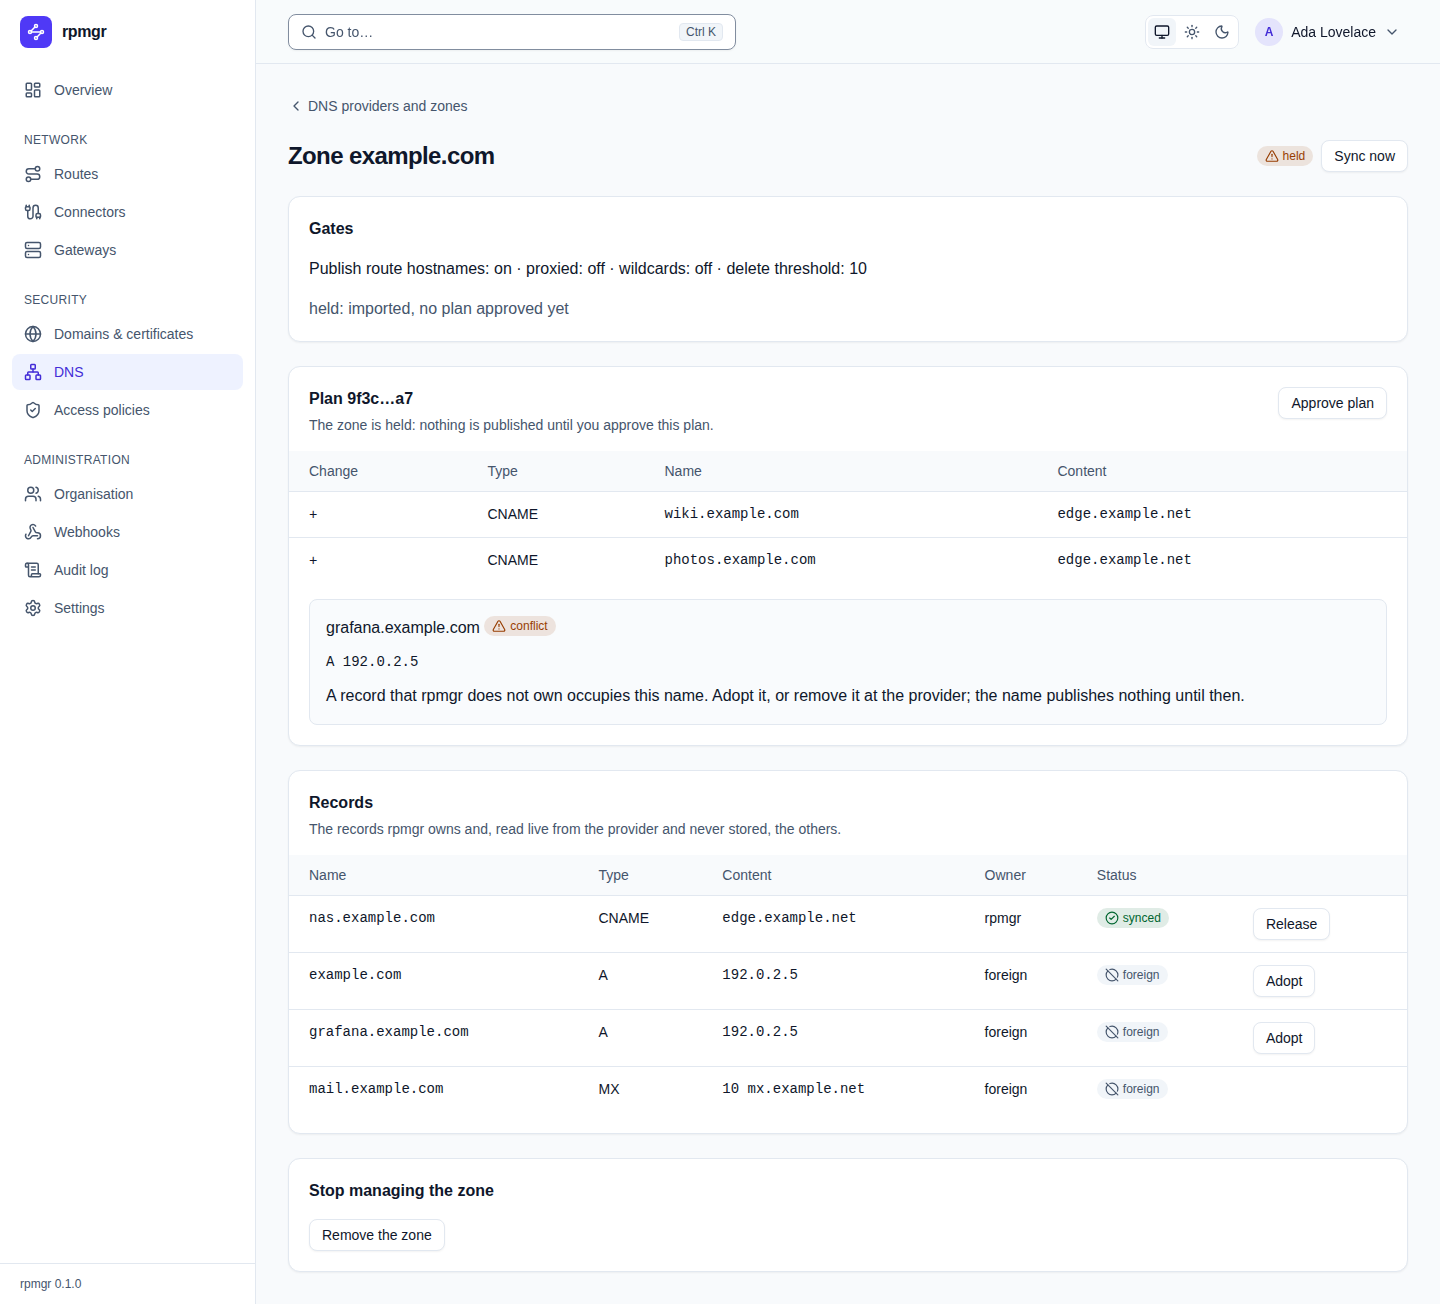
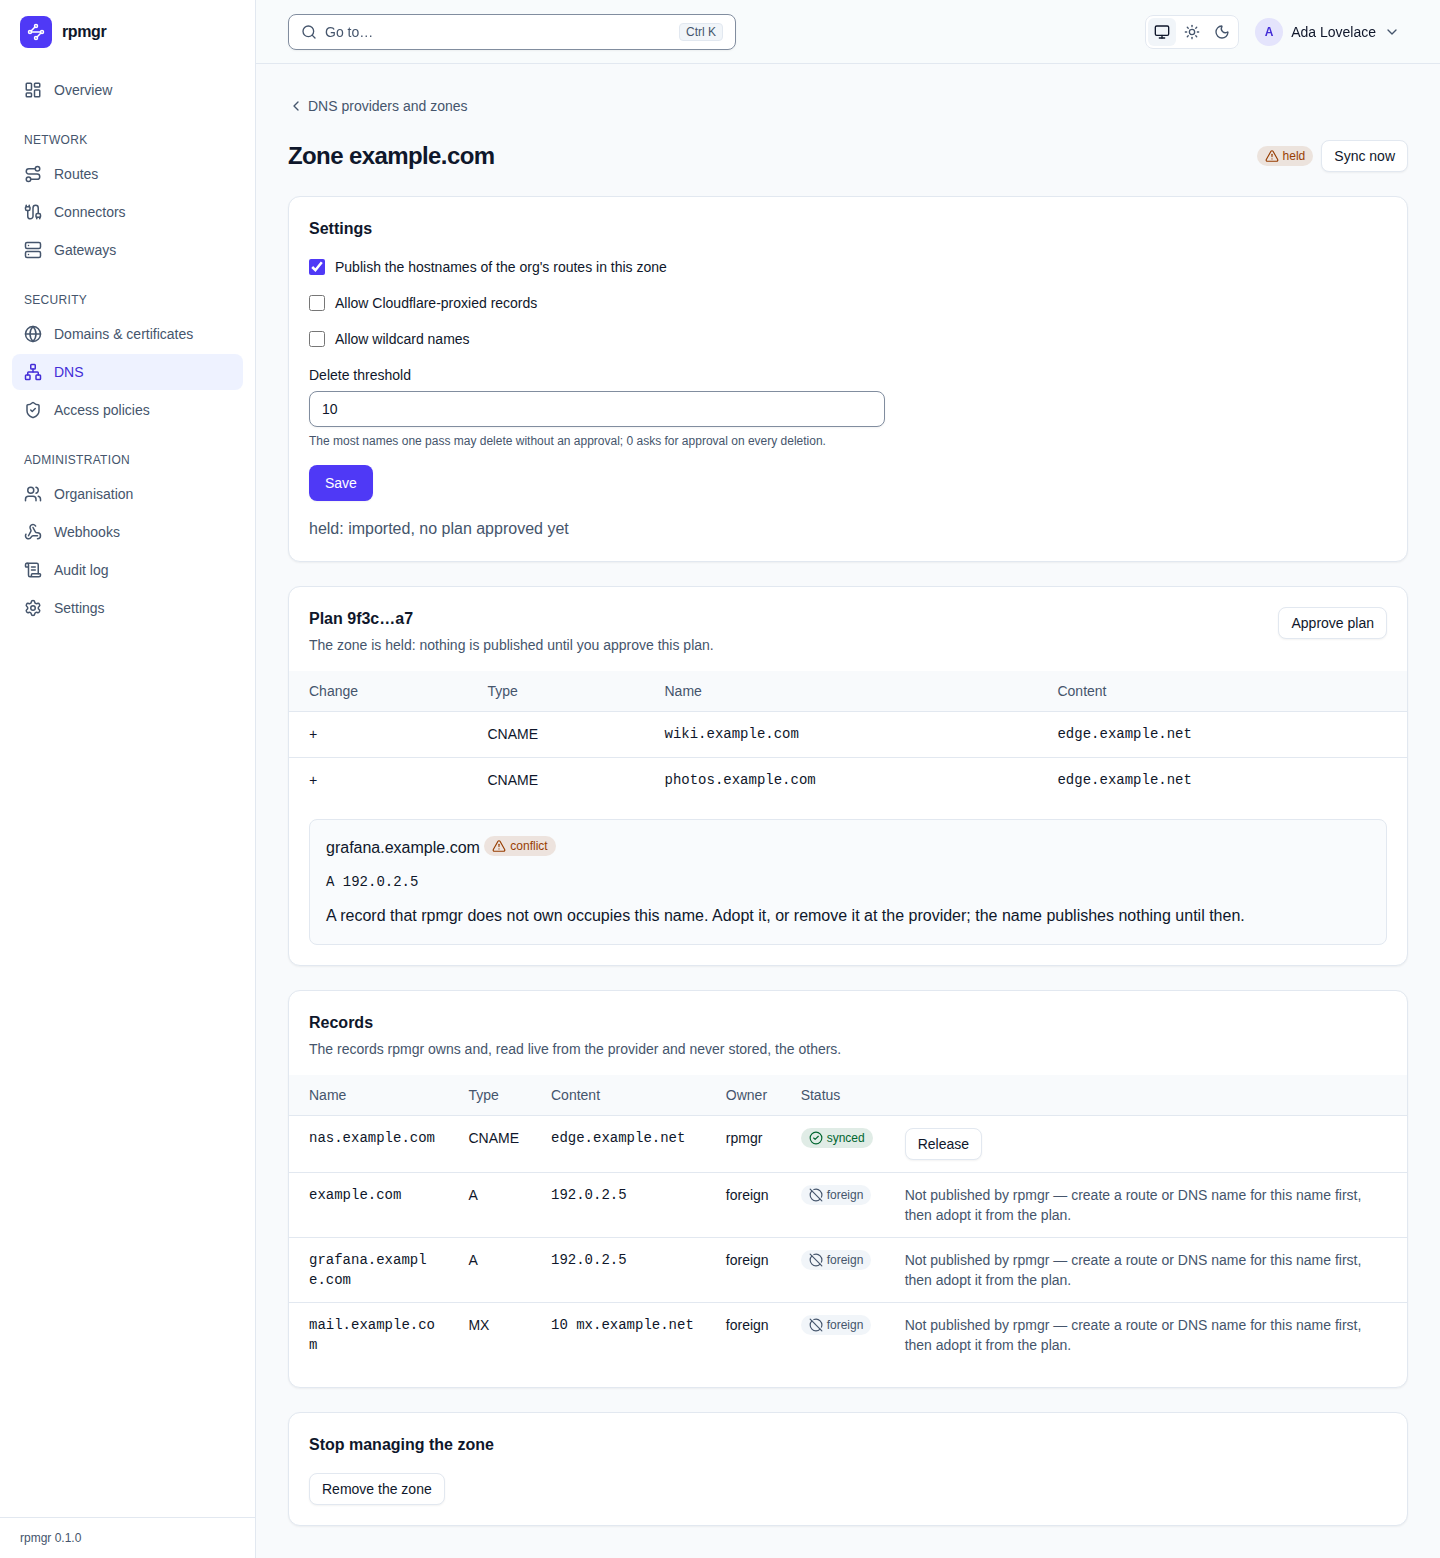
feat(web): change a DNS zone's settings on its page
Owners and Admins could change a zone's gates and delete threshold only
with `rpmgr update zone` or the API. The zone page now has a Settings
form: three switches and the delete threshold. It sends only the changed
fields in the update mask, with the zone's etag; UpdateZone needs no
step-up. The threshold is checked as a whole number from 0 to 1000, the
bounds of the server.

Closes #1156

diff --git a/web/src/pages/dns-zone.test.tsx b/web/src/pages/dns-zone.test.tsx
@@ -5,7 +5,7 @@ import { cleanup, fireEvent, render, screen, waitFor, within } from "@testing-li
 import { afterEach, describe, expect, it } from "vitest";
 import {
   DnsRecordState, DnsZoneService, ZoneDelegationState, ZoneProviderStatus, ZoneSyncState,
-  type AdoptRecordsRequest, type ApproveZonePlanRequest, type ListZoneRecordsRequest, type PlanZoneSyncRequest, type ReleaseRecordRequest, type RemoveZoneRequest,
+  type AdoptRecordsRequest, type ApproveZonePlanRequest, type ListZoneRecordsRequest, type PlanZoneSyncRequest, type ReleaseRecordRequest, type RemoveZoneRequest, type UpdateZoneRequest,
 } from "@/gen/rpmgr/v1/dns_pb";
 import { Theme, UserService } from "@/gen/rpmgr/v1/user_pb";
 import { apiError, auth, show } from "@/testing/api";
@@ -45,12 +45,12 @@ const foreign = [
   { id: "", providerRecordId: "pr_n", name: "www.example.com", type: "A", content: "203.0.113.9", state: DnsRecordState.FOREIGN, adoptable: false, adoptReason: "not_published" },
 ];
 
-interface Opts { role?: string; zone?: typeof held; planOf?: (n: number) => string; approveFails?: boolean; warning?: string }
+interface Opts { role?: string; updateFails?: Code; zone?: typeof held; planOf?: (n: number) => string; approveFails?: boolean; warning?: string }
 
 function page(opts: Opts = {}) {
   const calls = {
     getZone: 0, plans: [] as PlanZoneSyncRequest[], records: [] as ListZoneRecordsRequest[], approve: [] as ApproveZonePlanRequest[], adopt: [] as AdoptRecordsRequest[],
-    release: [] as ReleaseRecordRequest[], remove: [] as RemoveZoneRequest[], enable: 0, sync: 0, stepUps: 0,
+    release: [] as ReleaseRecordRequest[], remove: [] as RemoveZoneRequest[], update: [] as UpdateZoneRequest[], enable: 0, sync: 0, stepUps: 0,
   };
   let steppedUp = false;
   const needStepUp = () => {
@@ -84,6 +84,14 @@ function page(opts: Opts = {}) {
       releaseRecord: (req) => (needStepUp(), calls.release.push(req), { warning: opts.warning ?? "" }),
       enableZone: () => (needStepUp(), calls.enable++, { dnsZone: { ...current, syncState: ZoneSyncState.HELD } }),
       syncZone: () => (calls.sync++, { dnsZone: current }),
+      updateZone: (req) => {
+        if (opts.updateFails !== undefined) {
+          throw apiError(opts.updateFails, opts.updateFails === Code.FailedPrecondition ? "ETAG_MISMATCH" : "INVALID_ARGUMENT");
+        }
+        calls.update.push(req);
+        current = { ...current, ...req.dnsZone, etag: "6" } as typeof held;
+        return { dnsZone: current };
+      },
       removeZone: (req) => {
         needStepUp();
         calls.remove.push(req);
@@ -342,5 +350,73 @@ describe("DNS zone: long record content", () => {
   it("shows short content whole, without a proxied suffix when not proxied", () => {
     const r = render(<RecordContent content="192.0.2.7" />);
     expect(r.getByTitle("192.0.2.7").textContent).toBe("192.0.2.7");
+  });
+});
+
+describe("DNS zone: settings", () => {
+  it("saves only the changed fields, with the etag, and shows the saved zone", async () => {
+    const calls = page();
+    const form = within(await screen.findByRole("form", { name: "Settings" }));
+    expect((form.getByLabelText("Publish the hostnames of the org's routes in this zone") as HTMLInputElement).checked).toBe(true);
+    fireEvent.click(form.getByLabelText("Allow wildcard names"));
+    fireEvent.change(form.getByLabelText("Delete threshold"), { target: { value: "25" } });
+    fireEvent.click(form.getByRole("button", { name: "Save" }));
+    await waitFor(() => expect(calls.update).toHaveLength(1));
+    const req = calls.update[0]!;
+    expect(req.updateMask?.paths).toEqual(["allow_wildcards", "delete_threshold"]);
+    expect([req.dnsZone?.id, req.dnsZone?.allowWildcards, req.dnsZone?.deleteThreshold, req.etag]).toEqual(["dnz_1", true, 25, "5"]);
+    expect(await screen.findByText("The zone's settings are saved.")).toBeTruthy();
+    await waitFor(() => expect(calls.getZone).toBeGreaterThan(1));
+    expect(calls.stepUps).toBe(0);
+    await waitFor(() => expect((within(screen.getByRole("form", { name: "Settings" })).getByLabelText("Allow wildcard names") as HTMLInputElement).checked).toBe(true));
+  });
+
+  it("sends nothing when nothing changed", async () => {
+    const calls = page();
+    fireEvent.click(within(await screen.findByRole("form", { name: "Settings" })).getByRole("button", { name: "Save" }));
+    await new Promise((r) => setTimeout(r, 50));
+    expect(calls.update).toHaveLength(0);
+  });
+
+  it("shows no form to an Operator", async () => {
+    page({ role: "operator" });
+    expect((await screen.findAllByText(/owns/)).length).toBeGreaterThan(0);
+    expect(screen.queryByRole("form", { name: "Settings" })).toBeNull();
+    expect(screen.queryByLabelText("Delete threshold")).toBeNull();
+  });
+
+  it.each(["", "-1", "1001", "1.5", "abc", "1e2", "99999999999"])("refuses the threshold %j and sends nothing", async (value) => {
+    const calls = page();
+    const form = within(await screen.findByRole("form", { name: "Settings" }));
+    fireEvent.change(form.getByLabelText("Delete threshold"), { target: { value } });
+    fireEvent.click(form.getByRole("button", { name: "Save" }));
+    expect(await form.findByText("Enter a whole number from 0 to 1000.")).toBeTruthy();
+    expect(calls.update).toHaveLength(0);
+  });
+
+  it.each([["0", 0], ["1000", 1000]])("accepts the boundary threshold %s", async (value, n) => {
+    const calls = page();
+    const form = within(await screen.findByRole("form", { name: "Settings" }));
+    fireEvent.change(form.getByLabelText("Delete threshold"), { target: { value } });
+    fireEvent.click(form.getByRole("button", { name: "Save" }));
+    await waitFor(() => expect(calls.update.map((x) => x.dnsZone?.deleteThreshold)).toEqual([n]));
+  });
+
+  it("shows the refusal of a change made meanwhile and reloads the zone", async () => {
+    const calls = page({ updateFails: Code.FailedPrecondition });
+    const form = within(await screen.findByRole("form", { name: "Settings" }));
+    fireEvent.click(form.getByLabelText("Allow Cloudflare-proxied records"));
+    fireEvent.click(form.getByRole("button", { name: "Save" }));
+    expect(await screen.findByRole("alert")).toBeTruthy();
+    expect(screen.queryByText("The zone's settings are saved.")).toBeNull();
+    await waitFor(() => expect(calls.getZone).toBeGreaterThan(1));
+  });
+
+  it("shows the refusal of a value the API rejects", async () => {
+    page({ updateFails: Code.InvalidArgument });
+    const form = within(await screen.findByRole("form", { name: "Settings" }));
+    fireEvent.click(form.getByLabelText("Allow wildcard names"));
+    fireEvent.click(form.getByRole("button", { name: "Save" }));
+    expect(await screen.findByRole("alert")).toBeTruthy();
   });
 });

diff --git a/web/src/pages/dns-zone-settings.tsx b/web/src/pages/dns-zone-settings.tsx
@@ -1,0 +1,93 @@
+// SPDX-License-Identifier: Apache-2.0
+
+import { useMutation } from "@connectrpc/connect-query";
+import { useQueryClient } from "@tanstack/react-query";
+import { useState, type FormEvent } from "react";
+import { useTranslation } from "react-i18next";
+import { Field } from "@/components/field";
+import { Alert } from "@/components/public-page";
+import { Button } from "@/components/ui/button";
+import { DnsZoneService, type DnsZone } from "@/gen/rpmgr/v1/dns_pb";
+import { apiError } from "@/lib/api-error";
+
+// The highest delete threshold UpdateZone accepts (internal/apisvc/dns_zone.go, maxDeleteThreshold;
+// docs/15-dns.md, "Defaults").
+const maxThreshold = 1000;
+
+const check = "flex items-center gap-2.5 text-sm";
+
+// thresholdOf reads the threshold input: a whole number from 0 to the highest the API accepts, or
+// undefined.
+export function thresholdOf(text: string): number | undefined {
+  if (!/^\d{1,5}$/.test(text.trim())) {
+    return undefined;
+  }
+  const n = Number(text);
+  return n <= maxThreshold ? n : undefined;
+}
+
+// ZoneSettings changes the gates and the delete threshold of a zone, for Owners and Admins. It
+// sends the fields that differ from the zone as read, in the update mask, with the zone's etag, so
+// that a change somebody else made meanwhile is refused and not overwritten. UpdateZone needs no
+// step-up.
+// The form is keyed by the zone's etag by its caller, so that it shows the zone as read last; saved
+// and onSaved live above that key.
+export function ZoneSettings({ zone, saved, onSaved }: { zone: DnsZone; saved: boolean; onSaved: (v: boolean) => void }) {
+  const { t } = useTranslation();
+  const queryClient = useQueryClient();
+  const update = useMutation(DnsZoneService.method.updateZone);
+  const [routes, setRoutes] = useState(zone.publishRouteHostnames);
+  const [proxied, setProxied] = useState(zone.allowProxied);
+  const [wildcards, setWildcards] = useState(zone.allowWildcards);
+  const [threshold, setThreshold] = useState(String(zone.deleteThreshold));
+  const [error, setError] = useState("");
+  const parsed = thresholdOf(threshold);
+  const bad = parsed === undefined ? t("dnsZone.thresholdInvalid", { max: maxThreshold }) : "";
+  async function save(e: FormEvent) {
+    e.preventDefault();
+    onSaved(false);
+    setError("");
+    if (parsed === undefined) {
+      return;
+    }
+    const paths: string[] = [];
+    if (routes !== zone.publishRouteHostnames) paths.push("publish_route_hostnames");
+    if (proxied !== zone.allowProxied) paths.push("allow_proxied");
+    if (wildcards !== zone.allowWildcards) paths.push("allow_wildcards");
+    if (parsed !== zone.deleteThreshold) paths.push("delete_threshold");
+    if (paths.length === 0) {
+      return;
+    }
+    try {
+      await update.mutateAsync({
+        dnsZone: { id: zone.id, publishRouteHostnames: routes, allowProxied: proxied, allowWildcards: wildcards, deleteThreshold: parsed },
+        updateMask: { paths },
+        etag: zone.etag,
+      });
+      onSaved(true);
+    } catch (err) {
+      setError(apiError(t, err));
+    }
+    await queryClient.invalidateQueries();
+  }
+  return (
+    <form onSubmit={save} aria-label={t("dnsZone.settings")} noValidate className="grid max-w-xl gap-4">
+      <label className={check}>
+        <input type="checkbox" className="size-4 accent-primary" checked={routes} onChange={(e) => setRoutes(e.target.checked)} />
+        {t("dnsZone.publishRoutes")}
+      </label>
+      <label className={check}>
+        <input type="checkbox" className="size-4 accent-primary" checked={proxied} onChange={(e) => setProxied(e.target.checked)} />
+        {t("dnsZone.allowProxied")}
+      </label>
+      <label className={check}>
+        <input type="checkbox" className="size-4 accent-primary" checked={wildcards} onChange={(e) => setWildcards(e.target.checked)} />
+        {t("dnsZone.allowWildcards")}
+      </label>
+      <Field label={t("dnsZone.threshold")} hint={t("dnsZone.thresholdHint")} error={bad} inputMode="numeric" value={threshold} onChange={(e) => setThreshold(e.target.value)} />
+      {error && <Alert>{error}</Alert>}
+      {saved && <p role="status">{t("dnsZone.settingsSaved")}</p>}
+      <Button type="submit" className="justify-self-start" disabled={update.isPending}>{t("routeForm.save")}</Button>
+    </form>
+  );
+}

diff --git a/web/src/pages/dns-zone.tsx b/web/src/pages/dns-zone.tsx
@@ -20,6 +20,7 @@ import { apiError } from "@/lib/api-error";
 import { Reason, reasonOf } from "@/lib/errors";
 import { when } from "@/lib/format";
 import { AdoptButton, RecordContent, ZoneRecords } from "@/pages/dns-records";
+import { ZoneSettings } from "@/pages/dns-zone-settings";
 import { useOrg } from "@/session";
 import { useStepUp } from "@/step-up";
 
@@ -90,7 +91,7 @@ export function DnsZonePage() {
       {error && <Alert>{error}</Alert>}
       {note && <p role="status">{note}</p>}
       {zone && <DelegationWarning zone={zone} />}
-      {zone && <ZoneState zone={zone} />}
+      {zone && <ZoneState zone={zone} admin={admin} />}
       {zone && zone.syncState !== ZoneSyncState.DISABLED && <PlanCard zone={zone} />}
       <ZoneRecords zoneId={zoneId} admin={admin} />
       {zone && !zone.removalPending && <RemoveCard zone={zone} />}
@@ -116,13 +117,17 @@ function DelegationWarning({ zone }: { zone: DnsZone }) {
   return text ? <Alert>{text}</Alert> : null;
 }
 
-// ZoneState shows what the zone's gates are and what its provider answered.
-function ZoneState({ zone: z }: { zone: DnsZone }) {
+// ZoneState shows what the zone's gates are and what its provider answered. Owners and Admins
+// change the gates there.
+function ZoneState({ zone: z, admin }: { zone: DnsZone; admin: boolean }) {
   const { t } = useTranslation();
   const yes = (v: boolean) => t(v ? "dnsZone.on" : "dnsZone.off");
+  const [saved, setSaved] = useState(false);
   return (
-    <Card title={t("dnsZone.gates")}>
-      <p>{t("dnsZone.gatesLine", { routes: yes(z.publishRouteHostnames), proxied: yes(z.allowProxied), wildcards: yes(z.allowWildcards), threshold: z.deleteThreshold })}</p>
+    <Card title={t(admin ? "dnsZone.settings" : "dnsZone.gates")}>
+      {admin ? <ZoneSettings key={z.etag} zone={z} saved={saved} onSaved={setSaved} /> : (
+        <p>{t("dnsZone.gatesLine", { routes: yes(z.publishRouteHostnames), proxied: yes(z.allowProxied), wildcards: yes(z.allowWildcards), threshold: z.deleteThreshold })}</p>
+      )}
       <div className="flex flex-wrap gap-x-3 text-muted-foreground">
         {z.heldReason && z.syncState === ZoneSyncState.HELD && <span>{t("dns.heldReason", { reason: t(`dns.held.${z.heldReason}`, { defaultValue: z.heldReason }) })}</span>}
         {z.lastSyncedTime && <span>{t("dns.synced", { when: when(z.lastSyncedTime) })}</span>}

diff --git a/docs/09-web-ui.md b/docs/09-web-ui.md
@@ -998,7 +998,7 @@ one page, with a section list beside them that jumps to each section
 
 ```
 ┌ Zone: example.com · Cloudflare account "home" ───────────────── ▲ held: first plan  [Sync now] ┐
-│ Gates: publish route hostnames ✓ · proxied ✗ · wildcards ✗ · delete threshold 10    [Edit]     │
+│ Settings: [✓] publish route hostnames  [ ] proxied  [ ] wildcards  threshold [10]    [Save]    │
 ├ Plan 9f3c…e1 (approve to publish) ─────────────────────────────────────────────────────────────┤
 │ + CNAME  wiki.example.com                  → eu.gw.example.net    route wiki                   │
 │ + CNAME  nas.example.com                   → eu.gw.example.net    route nas                    │
@@ -1032,8 +1032,9 @@ one page, with a section list beside them that jumps to each section
   publishes is not served until the nameservers are set at the registrar, and which ones
   ([15](15-dns.md#delegation)). A zone that is delegated shows so, and the nameservers.
 - **The zone page** (`/dns/<zone>`, linked from the zone's name on the DNS page and loaded lazily)
-  differs from the mock-up in these ways. The gates are shown and not yet edited there, and there
-  is no **Discard**: a plan is read live and is replaced by the next one. The plan lists what a pass
+  differs from the mock-up in these ways. The gates are a **Settings** form there, with a switch for
+  each and the delete threshold, which sends only the fields that changed with the zone's etag and
+  needs no step-up; the mock-up's **Edit** button is not needed. There is no **Discard**: a plan is read live and is replaced by the next one. The plan lists what a pass
   would create (`+`), update (`~`) and delete (`−`), the orphans (`?`), after a restore the adopted records that changed since (`≠`), the shadowed wildcards and
   the conflicts, each conflict with the hint of U4 and, for a foreign address record, **Adopt**.
   **Enable zone** takes a disabled zone to held, and **Sync now** asks for a pass; both are in the

diff --git a/docs/guide/web-ui/dns.md b/docs/guide/web-ui/dns.md
@@ -51,8 +51,12 @@ The zone's page shows:
 
 - **The heading** with the zone's name, its state and **Sync now**, which asks for a full pass; a
   disabled zone has **Enable zone**, which makes it held.
-- **Gates:** whether the zone publishes route hostnames, allows proxied names and wildcards, and
-  its delete threshold. The gates are changed with `rpmgr update zone`.
+- **Settings:** whether the zone publishes route hostnames, allows proxied names and wildcards, and
+  its delete threshold. Owners and Admins change them here: three switches and the **Delete
+  threshold**, a whole number (0 asks for approval on every deletion). **Save** sends only the
+  fields you changed, with the version of the zone you saw. If somebody else changed the zone
+  meanwhile, the page says so, shows the zone as it is now and you make your change again. Saving
+  needs no step-up. The command line does the same with `rpmgr update zone`.
 - **Plan:** what the next pass would create (`+`), update (`~`) and delete (`−`), the orphans, after a
   restore the adopted records that changed since, the shadowed wildcards and the conflicts, each conflict with what to do and, for a foreign address
   record, **Adopt**. **Approve plan** is bound to the hash shown; it asks for a confirmation that

diff --git a/docs/guide/dns.md b/docs/guide/dns.md
@@ -156,14 +156,16 @@ of your organisation.
 rpmgr create dns-name --name ssh.example.com --group edge
 ```
 
-A wildcard needs a zone that allows wildcards and a domain claim that covers them
-(`rpmgr update zone example.com --allow-wildcards=true`).
+A wildcard needs a zone that allows wildcards and a domain claim that covers them. Switch on
+**Allow wildcard names** in the **Settings** of the zone's page, or run
+`rpmgr update zone example.com --allow-wildcards=true`.
 
 ## Proxied routes
 
 An HTTP route can have its names **proxied by Cloudflare**: visitors reach Cloudflare, which passes
 the request on to your gateways. Switch it on in the route's form, or with `--dns-proxied`; the zone
-must allow it first (`rpmgr update zone example.com --allow-proxied=true`). Set the zone's SSL/TLS
+must allow it first: switch on **Allow Cloudflare-proxied records** in the **Settings** of the
+zone's page, or run `rpmgr update zone example.com --allow-proxied=true`. Set the zone's SSL/TLS
 mode at Cloudflare to Full (strict). The gateway takes the client's address from Cloudflare's
 header, and only for a request that really comes from Cloudflare's published addresses
 ([15](../15-dns.md#proxied-http-routes)). The route form and

diff --git a/CHANGELOG.md b/CHANGELOG.md
@@ -47,6 +47,9 @@ Changes to the design documents are not recorded here: see the git history and t
 
 ### Added
 
+- The zone page now changes the zone's settings: whether it publishes route hostnames, allows
+  proxied names and wildcards, and its delete threshold. Before, that took `rpmgr update zone` or
+  the API.
 - A rollout warns before it offers a release that a host's local policy refuses. Connectors and
   gateways tell the controller the `auto_update` and `update_channel` of their policy file, again
   when it changes. The start dialog and `rpmgr create rollout` (also `--preview`) say how many
